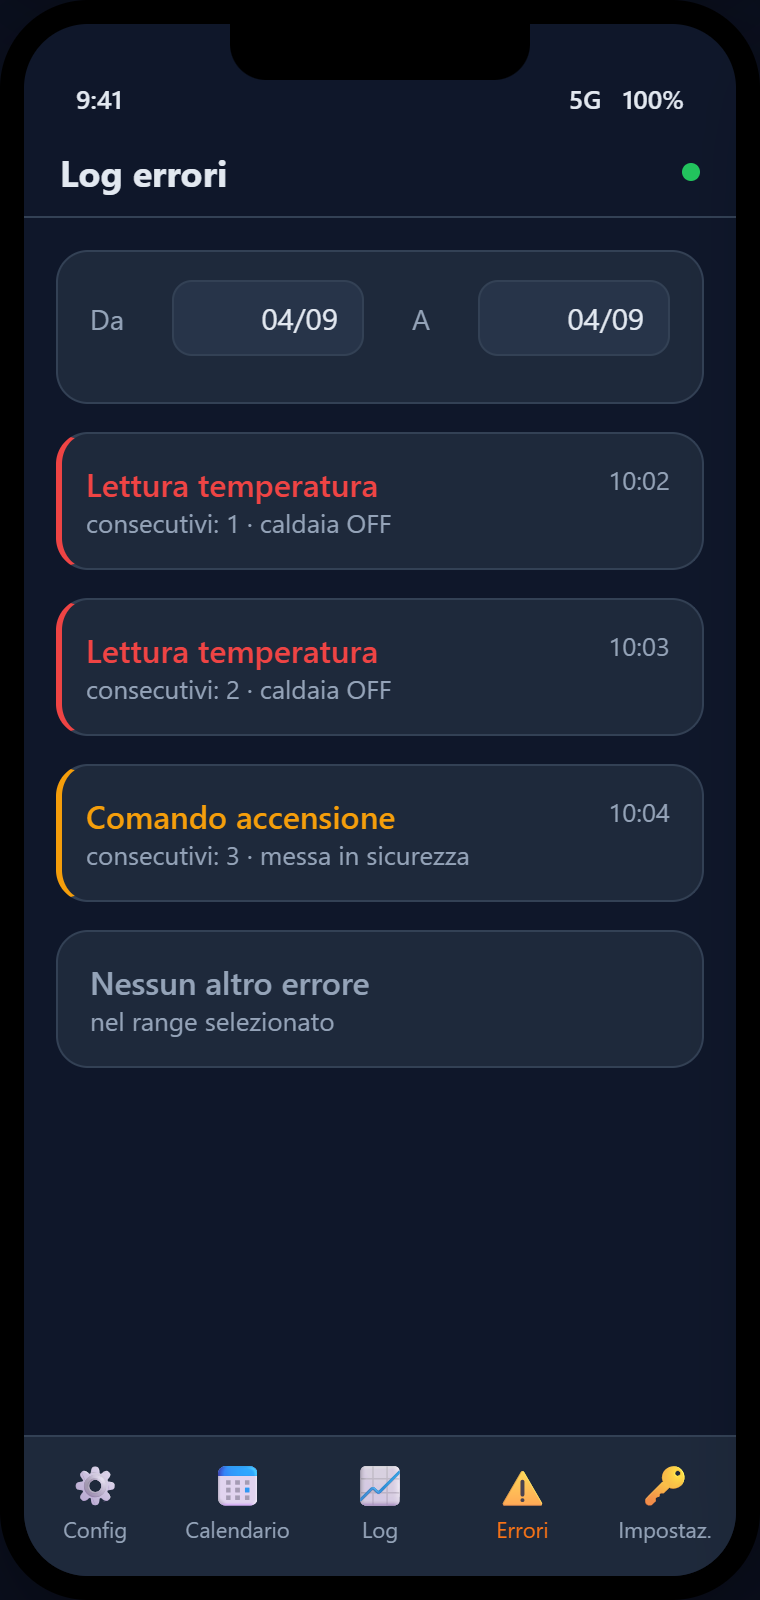
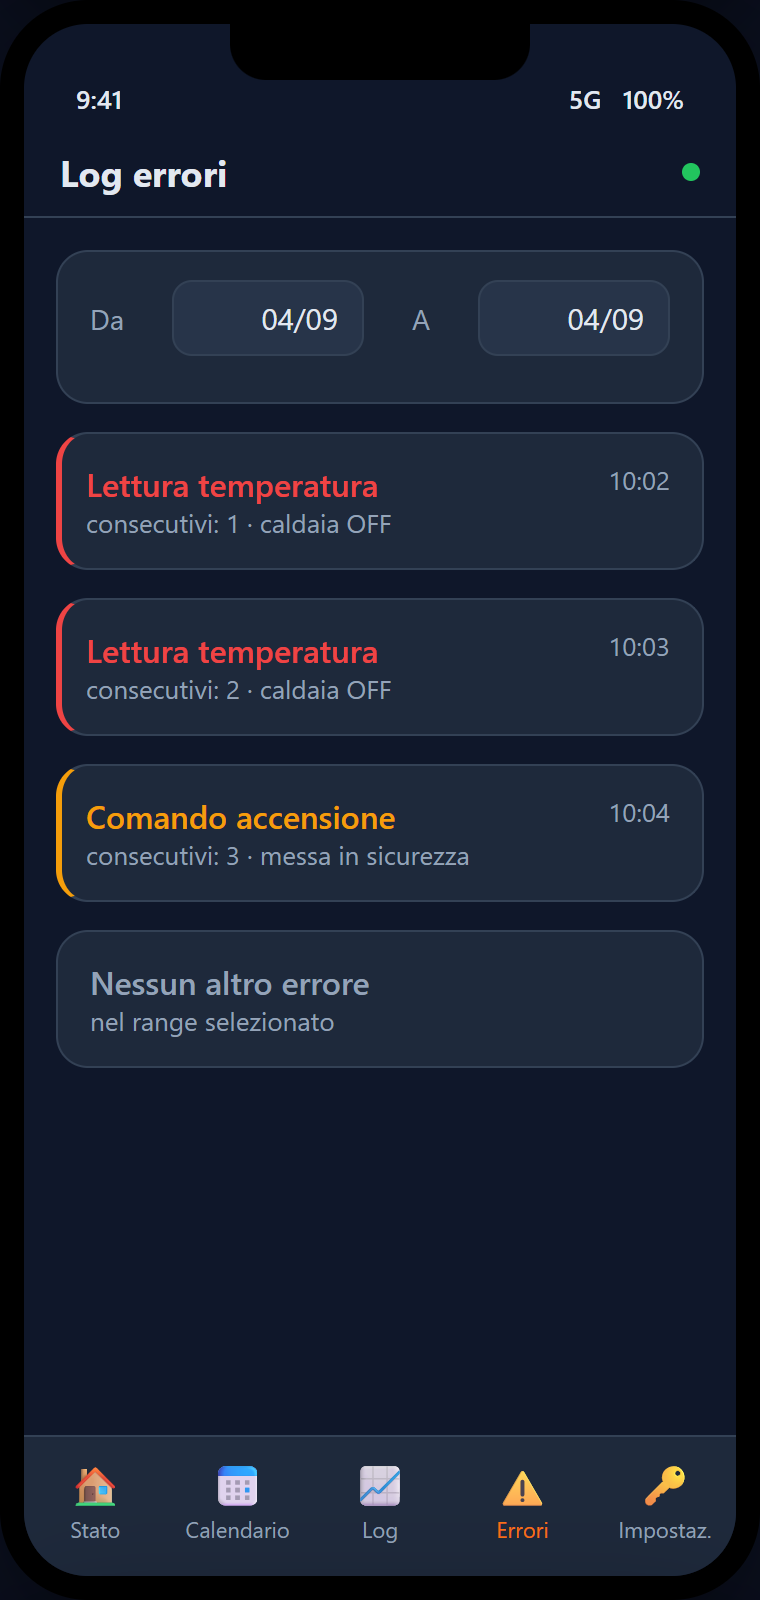
aggiornato mockup del f.e.

diff --git a/docs/mockups/mockups.html b/docs/mockups/mockups.html
@@ -113,15 +113,15 @@
         <button class="btn">Salva configurazione</button>
       </div>
       <div class="tabbar">
-        <div class="tab active"><span class="ic">⚙</span>Config</div>
+        <div class="tab"><span class="ic">🏠</span>Stato</div>
         <div class="tab"><span class="ic">📅</span>Calendario</div>
         <div class="tab"><span class="ic">📈</span>Log</div>
         <div class="tab"><span class="ic">⚠</span>Errori</div>
-        <div class="tab"><span class="ic">🔑</span>Impostaz.</div>
+        <div class="tab active"><span class="ic">🔑</span>Impostaz.</div>
       </div>
     </div>
   </div>
-  <div class="caption">1 — Configurazione</div>
+  <div class="caption">1 — Configurazione</div></div>
   </div>
 
   <!-- 2. CALENDARIO -->
@@ -180,7 +180,7 @@
         <button class="btn">Salva calendario</button>
       </div>
       <div class="tabbar">
-        <div class="tab"><span class="ic">⚙</span>Config</div>
+        <div class="tab"><span class="ic">🏠</span>Stato</div>
         <div class="tab active"><span class="ic">📅</span>Calendario</div>
         <div class="tab"><span class="ic">📈</span>Log</div>
         <div class="tab"><span class="ic">⚠</span>Errori</div>
@@ -233,7 +233,7 @@
         <div class="hint" style="text-align:center">Vista di default: solo grafico. La tabella dei singoli record è disponibile su richiesta.</div>
       </div>
       <div class="tabbar">
-        <div class="tab"><span class="ic">⚙</span>Config</div>
+        <div class="tab"><span class="ic">🏠</span>Stato</div>
         <div class="tab"><span class="ic">📅</span>Calendario</div>
         <div class="tab active"><span class="ic">📈</span>Log</div>
         <div class="tab"><span class="ic">⚠</span>Errori</div>
@@ -269,7 +269,7 @@
         </div>
       </div>
       <div class="tabbar">
-        <div class="tab"><span class="ic">⚙</span>Config</div>
+        <div class="tab"><span class="ic">🏠</span>Stato</div>
         <div class="tab"><span class="ic">📅</span>Calendario</div>
         <div class="tab"><span class="ic">📈</span>Log</div>
         <div class="tab active"><span class="ic">⚠</span>Errori</div>
@@ -301,13 +301,18 @@
         </div>
         <button class="btn danger">Rimuovi chiave</button>
         <div class="card">
+          <h2>Impostazioni applicative</h2>
+          <div class="row"><span class="label">Configurazione sistema</span><span class="val">›</span></div>
+          <button class="btn sec" style="margin-top:8px">Apri configurazione</button>
+        </div>
+        <div class="card">
           <h2>Backend</h2>
           <div class="row"><span class="label">Stato</span><span class="pill on">UP</span></div>
           <div class="row"><span class="label">Endpoint</span><span class="muted" style="font-size:12px">/termostato/api</span></div>
         </div>
       </div>
       <div class="tabbar">
-        <div class="tab"><span class="ic">⚙</span>Config</div>
+        <div class="tab"><span class="ic">🏠</span>Stato</div>
         <div class="tab"><span class="ic">📅</span>Calendario</div>
         <div class="tab"><span class="ic">📈</span>Log</div>
         <div class="tab"><span class="ic">⚠</span>Errori</div>
@@ -368,7 +373,7 @@
         <div class="hint" style="text-align:center">Lista virtualizzata (react-window) · un record al minuto · scorri per i precedenti</div>
       </div>
       <div class="tabbar">
-        <div class="tab"><span class="ic">⚙</span>Config</div>
+        <div class="tab"><span class="ic">🏠</span>Stato</div>
         <div class="tab"><span class="ic">📅</span>Calendario</div>
         <div class="tab active"><span class="ic">📈</span>Log</div>
         <div class="tab"><span class="ic">⚠</span>Errori</div>
@@ -377,6 +382,47 @@
     </div>
   </div>
   <div class="caption">7 — Log · tabella dettaglio (un rigo/minuto)</div>
+  </div>
+
+  <!-- 8. STATO CORRENTE -->
+  <div class="wrap">
+  <div class="phone" id="s-status">
+    <div class="notch"></div>
+    <div class="status"><span>9:41</span><span>5G &nbsp; 100%</span></div>
+    <div class="screen">
+      <div class="appbar"><h1>Stato</h1><span class="health"><span class="dot up"></span>Backend UP</span></div>
+      <div class="content">
+        <div class="card" style="border-color:var(--accent);text-align:center;padding:20px 16px">
+          <h2>Temperatura ambiente</h2>
+          <div class="big">19.0 <span class="unit">°C</span></div>
+          <div class="sub" style="margin-top:8px">lettura corrente dal sensore</div>
+        </div>
+        <div class="card">
+          <h2>Stato termostato</h2>
+          <div class="row"><span class="label">Target attivo</span><span class="val">20.5 °C</span></div>
+          <div class="row"><span class="label">Relay caldaia</span><span class="pill on">ACCESO</span></div>
+        </div>
+        <div class="card">
+          <h2>Aggiornamento</h2>
+          <div class="row"><span class="label">Ultima lettura</span><span class="val time">09:41:00</span></div>
+          <div class="hint">Orario locale del dispositivo · il backend non restituisce un timestamp.</div>
+          <button class="btn" style="margin-top:12px">↻ Aggiorna</button>
+        </div>
+        <div class="card">
+          <div class="row" style="padding:0"><span class="label">Nessun comando relay disponibile</span><span class="badge">sola lettura</span></div>
+          <div class="hint">Per modificare il comportamento usa configurazione e calendario.</div>
+        </div>
+      </div>
+      <div class="tabbar">
+        <div class="tab active"><span class="ic">🏠</span>Stato</div>
+        <div class="tab"><span class="ic">📅</span>Calendario</div>
+        <div class="tab"><span class="ic">📈</span>Log</div>
+        <div class="tab"><span class="ic">⚠</span>Errori</div>
+        <div class="tab"><span class="ic">🔑</span>Impostaz.</div>
+      </div>
+    </div>
+  </div>
+  <div class="caption">8 — Stato corrente</div>
   </div>
 
 </div>

diff --git a/docs/mockups/shot.js b/docs/mockups/shot.js
@@ -13,6 +13,7 @@ const shots = [
   ['s-set',    'schermata-5-impostazioni.png'],
   ['s-gate',   'schermata-6-gate-apikey.png'],
   ['s-logdet', 'schermata-7-log-dettaglio.png'],
+  ['s-status', 'schermata-8-stato.png'],
 ];
 
 (async () => {

diff --git a/docs/specifiche-tecniche-frontend.md b/docs/specifiche-tecniche-frontend.md
@@ -9,11 +9,13 @@
 
 Realizzare una **web-app mobile-first** che permetta di:
 
-1. Visualizzare e modificare la configurazione di sistema (`GET`/`PUT /config`).
-2. Visualizzare e modificare il calendario settimanale (`GET`/`PUT /config/calendario`).
-3. Consultare i log di polling (`GET /log`) con filtro per range di date.
-4. Consultare i log di errore (`GET /log/errori`) con filtro per range di date.
-5. (Opzionale) Mostrare lo stato di salute del backend (`GET /actuator/health`).
+1. Visualizzare lo stato corrente del termostato (`GET /stato`): temperatura
+   ambiente, temperatura target attiva e stato reale del relay.
+2. Visualizzare e modificare la configurazione di sistema (`GET`/`PUT /config`).
+3. Visualizzare e modificare il calendario settimanale (`GET`/`PUT /config/calendario`).
+4. Consultare i log di polling (`GET /log`) con filtro per range di date.
+5. Consultare i log di errore (`GET /log/errori`) con filtro per range di date.
+6. (Opzionale) Mostrare lo stato di salute del backend (`GET /actuator/health`).
 
 L'ambito è **esclusivamente il frontend**. Il backend non viene modificato. Il
 consumo del contratto REST inbound è quello descritto in `openapi.yaml`; gli
@@ -28,6 +30,7 @@ per lo scenario E2E lato backend).
 | Deploy su Linux con Apache2 + HTTPS funzionante | Richiesta utente | Il frontend è un **bundle statico** servito da Apache; nessun runtime Node in produzione |
 | Preferenza per la semplicità | Richiesta utente | Stack minimale, poche dipendenze, nessun backend-for-frontend dedicato |
 | Autenticazione via `X-API-Key` | `openapi.yaml`, sez. 3.8 / 7.0 | Vedi capitolo 5 (Sicurezza): il segreto non può risiedere nel bundle |
+| Stato corrente | `openapi.yaml`, `GET /stato` | Dashboard read-only; ogni richiesta legge sensore e relay, `temperatura_target` può essere `null`; nessun comando di attuazione dal frontend |
 | JSON in `snake_case` | `openapi.yaml` (info) | Tipi TypeScript con proprietà in snake_case; nessuna conversione automatica |
 | Date/orari in UTC | Spec funzionali RF-24/25, `openapi.yaml` | Gestione esplicita UTC ↔ visualizzazione locale (vedi cap. 7) |
 
@@ -102,6 +105,7 @@ src/
   api/
     generated.ts           # tipi generati da openapi.yaml (openapi-typescript)
     client.ts              # wrapper fetch: base URL, header X-API-Key, gestione errori/401
+    state.ts               # funzione getCurrentState per GET /stato
     config.ts              # funzioni getConfig / updateConfig
     calendar.ts            # funzioni getCalendar / updateCalendar
     logs.ts                # funzioni getPollingLogs / getErrorLogs
@@ -110,15 +114,17 @@ src/
     ApiKeyGate.tsx         # gate: mostra inserimento chiave se assente/non valida
     useApiKey.ts           # hook per accedere/aggiornare la chiave
   hooks/
+    useCurrentState.ts     # React Query hook per GET /stato e refresh
     useConfig.ts           # React Query hooks
     useCalendar.ts
     useLogs.ts
   pages/
+    StatusPage.tsx         # dashboard stato corrente, route /stato
     ConfigPage.tsx
     CalendarPage.tsx
     LogsPage.tsx
     ErrorLogsPage.tsx
-    SettingsPage.tsx       # gestione API-key (inserimento/sostituzione/reset)
+    SettingsPage.tsx       # API-key + link alla configurazione sistema
   components/
     forms/                 # campi form riutilizzabili (temperatura, orario, ecc.)
     layout/                # header, bottom nav mobile, safe-area wrapper
@@ -134,10 +140,13 @@ src/
 - `api/client.ts` centralizza: base URL, header `X-API-Key` (vedi cap. 5),
   serializzazione JSON, parsing risposte, mappatura degli errori (`ApiError`,
   `UnauthorizedError`) in un formato uniforme per la UI.
+- `api/state.ts` espone `getCurrentState()`, che chiama `GET /stato` e restituisce
+  il tipo generato dalla risposta `200` dell'operazione `getCurrentState`.
 - I tipi TypeScript sono **generati** da `openapi.yaml` così da restare allineati
   al contratto (comando in `package.json`, es. `openapi-typescript openapi.yaml -o src/api/generated.ts`).
 - Ogni endpoint ha una funzione dedicata + un hook React Query per cache,
-  stato di caricamento e invalidazione dopo le `PUT`.
+  stato di caricamento e invalidazione dopo le `PUT`; `useCurrentState` gestisce
+  anche refresh manuale e polling non aggressivo dello stato corrente.
 
 ## 5. Sicurezza e gestione della API-key
 
@@ -213,12 +222,44 @@ La configurazione Apache completa è nel cap. 10.2.
 
 All'avvio l'app applica un **gate sulla API-key** (`ApiKeyGate`): se non è
 presente una chiave in `localStorage`, mostra la schermata di inserimento chiave
-(vedi 6.6) prima di ogni altra funzionalità.
+(vedi 6.7) prima di ogni altra funzionalità.
 
-Navigazione mobile con **bottom navigation** a 5 voci: Config, Calendario, Log,
-Errori, Impostazioni. Un badge/indicatore di stato backend (health) nell'header.
+Navigazione mobile con **bottom navigation** a 5 voci: **Stato**, Calendario,
+Log, Errori, Impostazioni. La configurazione completa resta disponibile nella
+route `/config`, raggiungibile dal pulsante "Configurazione sistema" della
+schermata Impostazioni (così la barra non viene sovraccaricata con una sesta
+voce). La schermata Stato è la destinazione iniziale dopo il gate.
 
-### 6.1 Schermata Configurazione (`/config`)
+### 6.1 Schermata Stato corrente (`/stato`)
+
+- È la **dashboard iniziale** e la voce principale della bottom navigation.
+- Carica lo stato con `GET /stato` tramite `useCurrentState`.
+- Il backend esegue a ogni richiesta la lettura del sensore, la risoluzione del
+  target e la lettura del relay: il frontend tratta la risposta come una lettura
+  **read-only**, senza tentare di comandare direttamente la caldaia.
+- Visualizza in modo immediato:
+  - `temperatura`: temperatura ambiente, con una cifra decimale e unità `°C`;
+  - `temperatura_target`: target attivo, con una cifra decimale; se è `null`
+    mostrare **"Nessun target attivo"**;
+  - `relay_acceso`: stato reale del relay, con indicatore evidente **ON/OFF**
+    (o **ACCESO/SPENTO**).
+- Se `temperatura_target` è `null`, il frontend non deve dedurre lo stato del
+  relay dal target: mostra sempre il valore effettivamente restituito da
+  `relay_acceso`.
+- Aggiornamento dati:
+  - caricamento all'ingresso nella pagina e pulsante **"Aggiorna"** manuale;
+  - refetch automatico ogni **60 secondi**, sospeso quando la pagina non è
+    visibile, perché ogni chiamata legge sensore e relay esterni;
+  - indicare l'istante dell'ultima richiesta usando l'ora locale del dispositivo.
+    L'istante è una marca locale del frontend: il contratto `/stato` non
+    restituisce un timestamp del backend.
+- Stati UI obbligatori: skeleton/loading iniziale, errore `500` con messaggio
+  comprensibile e azione "Riprova", gestione `401` tramite il gate API-key,
+  e stato dati sempre aggiornato durante il refetch.
+- La schermata non espone comandi di accensione/spegnimento: il backend espone
+  per questo caso solo una lettura dello stato corrente.
+
+### 6.2 Schermata Configurazione (`/config`)
 
 - Carica con `GET /config`, salva con `PUT /config`.
 - Form con validazione allineata a `SystemConfiguration`:
@@ -238,7 +279,7 @@ Errori, Impostazioni. Un badge/indicatore di stato backend (health) nell'header.
   i campi letti, non solo quelli modificati (merge sullo stato caricato).
 - Gestione `400` → mostrare `message` dell'`ApiError`.
 
-### 6.2 Schermata Calendario (`/config/calendario`)
+### 6.3 Schermata Calendario (`/config/calendario`)
 
 - Carica con `GET /config/calendario`, salva con `PUT /config/calendario`.
 - Struttura: 7 giorni canonici (`lunedi`…`domenica`), ciascuno con lista di
@@ -272,7 +313,7 @@ telefono: la schermata usa un layout **ad accordion**.
 - Suggerimento UX: azione rapida **"Copia su altri giorni"** per replicare gli
   intervalli di un giorno su altri (comodo con 4+ slot ripetuti nella settimana).
 
-### 6.3 Schermata Log di polling (`/log`)
+### 6.4 Schermata Log di polling (`/log`)
 
 - `GET /log?da=&a=` con parametri opzionali (`format: date`, UTC).
 - Default senza parametri → giorno corrente UTC (gestito dal backend).
@@ -306,40 +347,45 @@ forma di **tabella compatta**.
     alta frequenza, sono consultabili aprendo la singola riga (dettaglio) e non
     occupano colonne fisse.
 
-### 6.4 Schermata Log di errore (`/log/errori`)
+### 6.5 Schermata Log di errore (`/log/errori`)
 
 - `GET /log/errori?da=&a=`, stessa semantica di `/log`.
 - Ogni record: data/ora, `tipo_errore`, caldaia (nullable), temperatura rilevata
   (nullable), `num_errori_consecutivi`.
 - Evidenziare visivamente la severità (colore) e il conteggio consecutivo.
 
-### 6.5 Stato backend (opzionale)
+### 6.6 Stato backend (opzionale)
 
 - `GET /actuator/health` per un indicatore UP/DOWN nell'header.
 
-### 6.6 Schermata Impostazioni / API-key (`/settings`)
+### 6.7 Schermata Impostazioni / API-key (`/settings`)
 
+- È la quinta voce della bottom navigation e contiene la gestione della chiave
+  API oltre ai collegamenti alle impostazioni applicative.
 - Mostra lo stato corrente della chiave (impostata / non impostata), senza mai
   rivelarla in chiaro (es. solo ultimi caratteri mascherati).
 - **Inserimento/sostituzione chiave**: campo `type="password"`,
   `autocomplete="off"`; al salvataggio la chiave va in `localStorage`.
 - **Rimozione chiave**: pulsante che cancella la chiave dallo storage e riporta
   al gate di inserimento.
+- Espone un'azione/link **"Configurazione sistema"** verso `/config`, che apre
+  il form completo di `GET`/`PUT /config` descritto nella sezione 6.2.
 - Questa schermata è anche la destinazione del **redirect automatico su `401`**
   (chiave mancante/non valida), con messaggio esplicativo.
 - All'inserimento è consigliata una **verifica** immediata della chiave con una
-  chiamata leggera (es. `GET /actuator/health` o `GET /config`): se risponde
+  chiamata leggera (es. `GET /actuator/health` o `GET /stato`): se risponde
   `401`, la chiave è rifiutata e non viene salvata come valida.
 
 ## 7. Gestione di data e ora (UTC ↔ ora locale)
 
 - Il back-end tratta, memorizza e restituisce **tutti** gli orari e i timestamp
-  esclusivamente in **UTC** (spec. funzionali RF-40). Il front-end è
-  responsabile della conversione nell'**ora locale** del dispositivo in
-  visualizzazione e della riconversione in UTC prima dell'invio (RF-41).
+  esclusivamente in **UTC** (specifiche funzionali RF-24/RF-25 e `openapi.yaml`).
+  Il front-end è responsabile della conversione nell'**ora locale** del
+  dispositivo in visualizzazione e della riconversione in UTC prima dell'invio.
 - Per un utente in Italia l'offset è **UTC+1** in ora solare e **UTC+2** in ora
   legale (CEST). La conversione deve seguire automaticamente il cambio DST.
-- Il formato orario mostrato ed editato è **`HH:mm`** (RF-42).
+- Il formato orario mostrato ed editato è **`HH:mm`**, come regola di interfaccia
+  frontend; il backend accetta anche `HH:mm:ss` secondo il contratto OpenAPI.
 - **Regole di progettazione:**
   - Tutte le richieste inviano date/orari in UTC; tutte le risposte sono
     interpretate come UTC.
@@ -376,18 +422,20 @@ forma di **tabella compatta**.
 | FE-NF-10 | **PWA richiesta**: manifest + icone + service worker per "Aggiungi a Home" su iPhone e avvio in modalità standalone |
 | FE-NF-11 | La chiave non deve mai comparire nei log applicativi né essere mostrata in chiaro in UI |
 | FE-NF-12 | **Visualizzazione grafica richiesta** dei log di polling (andamento temperatura rilevata/target e stato caldaia) |
+| FE-NF-13 | La dashboard Stato deve mostrare la lettura corrente di `GET /stato`, gestire `temperatura_target = null`, distinguere loading/error/ultimo aggiornamento e non esporre comandi di relay |
 
 ## 9. Mappatura endpoint → funzionalità
 
 | Endpoint (OpenAPI) | Metodo | Uso nel frontend |
 |---|---|---|
-| `/config` | GET | Caricamento form configurazione |
+| `/stato` | GET | Dashboard iniziale: temperatura ambiente, target attivo nullable e stato relay; refetch manuale/ogni 60 s |
+| `/config` | GET | Caricamento form configurazione, raggiungibile da Impostazioni |
 | `/config` | PUT | Salvataggio configurazione (oggetto completo) |
 | `/config/calendario` | GET | Caricamento editor calendario |
 | `/config/calendario` | PUT | Salvataggio calendario (7 giorni completi) |
-| `/log` | GET | Lista log polling con filtro `da`/`a` |
+| `/log` | GET | Lista log polling con filtro `da`/`a` e grafico |
 | `/log/errori` | GET | Lista log errori con filtro `da`/`a` |
-| `/actuator/health` | GET | Indicatore stato backend (opzionale) |
+| `/actuator/health` | GET | Indicatore stato backend nell'header (opzionale) |
 | `mock/*`, `/temperature`, `/relay` | — | **Non usati** dal frontend |
 
 ## 10. Build e deploy su Apache
@@ -494,13 +542,16 @@ Alias /termostato /var/www/termostato-fe
 ## 11. Testing
 
 - **Unit/Component** (Vitest + Testing Library): validazioni form (override
-  obbligatorio, sovrapposizione intervalli, `da <= a`), rendering card log,
-  gate API-key (chiave assente → inserimento; `401` → invalidazione + redirect).
+  obbligatorio, sovrapposizione intervalli, `da <= a`), rendering del grafico e
+  della tabella log, dashboard Stato con risposta completa e con
+  `temperatura_target = null`, gestione loading/500/refresh, gate API-key
+  (chiave assente → inserimento; `401` → invalidazione + redirect).
 - **Contract**: test che i tipi generati corrispondano al contratto (rigenerazione
-  in CI e diff).
-- **E2E** (Playwright, opzionale): flusso "leggi config → modifica soglia →
-  salva → ricarica" contro un backend con profilo `mock`.
-- Test manuale su **Safari iOS** reale per layout, safe-area e date.
+  in CI e diff), inclusa la risposta di `GET /stato`.
+- **E2E** (Playwright, opzionale): flusso "gate → leggi Stato → leggi config →
+  modifica soglia → salva → ricarica" contro un backend con profilo `mock`.
+- Test manuale su **Safari iOS** reale per layout, safe-area, date e refresh
+  periodico della schermata Stato.
 
 ## 12. Decisioni consolidate (ex punti aperti)
 
@@ -518,16 +569,20 @@ Alias /termostato /var/www/termostato-fe
 4. **PWA**: DECISA → installabile "Aggiungi a Home" su iPhone via
    `vite-plugin-pwa` (cap. 3.1 e FE-NF-10).
 5. **Visualizzazione grafica dei log**: DECISA → grafico a linee (Recharts) su
-   temperatura rilevata/target e stato caldaia (cap. 6.3 e FE-NF-12).
+   temperatura rilevata/target e stato caldaia (cap. 6.4 e FE-NF-12).
+6. **Stato corrente**: DECISO → dashboard iniziale `/stato` alimentata da
+   `GET /stato`, read-only, con refresh manuale e automatico ogni 60 secondi;
+   bottom navigation a 5 voci con Stato al posto di Config. La configurazione
+   completa resta raggiungibile da Impostazioni (cap. 6.1 e FE-NF-13).
 
 ## 13. Note di implementazione PWA
 
 - Configurare `vite-plugin-pwa` con `registerType: 'autoUpdate'` per aggiornare
   il service worker senza intervento manuale.
 - **Scope in sotto-cartella**: impostare `base: '/termostato/'` e
-  `scope: '/termostato/'`; nel manifest `start_url: '/termostato/'`. Lo scope del
-  service worker resta così confinato all'app e non interferisce con la home del
-  dominio.
+  `scope: '/termostato/'`; nel manifest `start_url: '/termostato/stato'`. La PWA
+  apre direttamente la dashboard corrente e lo scope del service worker resta
+  confinato all'app, senza interferire con la home del dominio.
 - **Manifest**: `name`, `short_name`, `display: 'standalone'`, `theme_color`,
   `background_color`, icone (almeno 192px e 512px, più icona maskable).
 - **iOS/Safari**: aggiungere i meta tag `apple-mobile-web-app-capable`,
